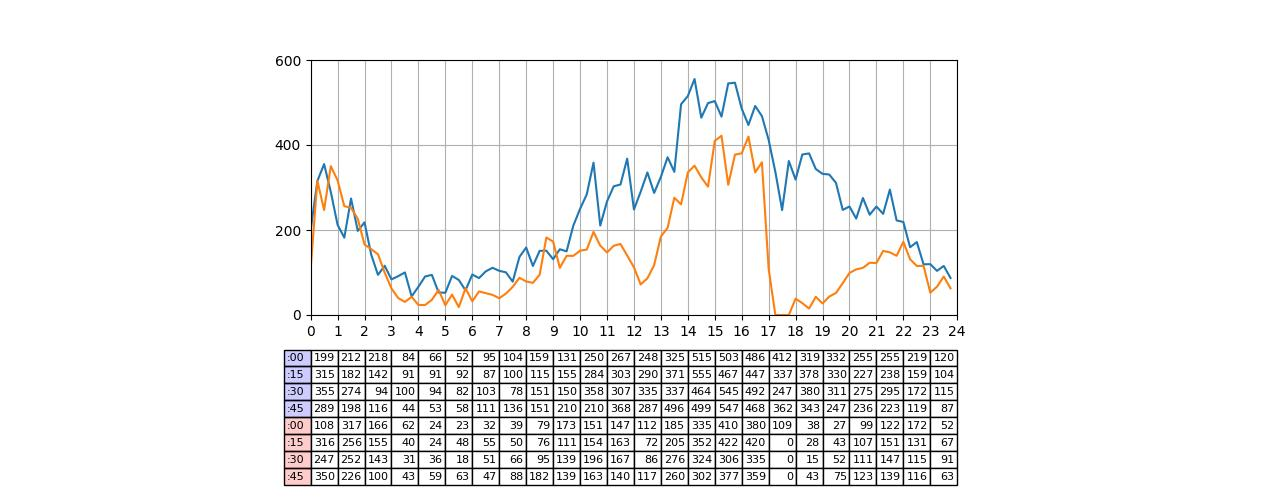
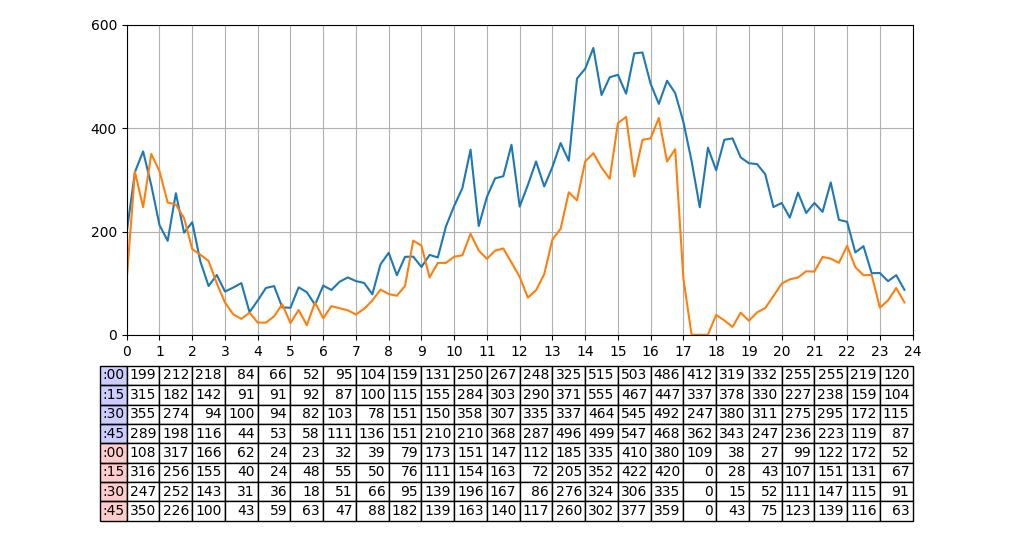
fixed table display

Changed region(s): [[0.0917, 0.09, 0.9172, 0.99], [0.0917, 0.03, 0.8866, 0.06]]

diff --git a/graphToCSV.py b/graphToCSV.py
@@ -17,6 +17,7 @@ def GetBooleans(args, file_names):
     show_graphs = False
     save_graphs = False
     overlay = False
+    table = False
     divs = 4
     # Get list of file_names and update boolean.
     if len(args) > 0:
@@ -34,13 +35,16 @@ def GetBooleans(args, file_names):
         if 'overlay' in args:
             overlay = True
             args.remove('overlay')
+        if 'table' in args:
+            table = True
+            args.remove('table')
         # To keep reference, use +=.
         file_names += args
     if len(file_names) == 0:
         if not show_graphs:
             output_month = True
         output = False
-    return (output, output_month, show_graphs, save_graphs, divs, overlay)
+    return (output, output_month, show_graphs, save_graphs, divs, overlay, table)
 
 
 def GetBox(color_band):
@@ -121,7 +125,7 @@ if __name__ == "__main__":
     # Parse command line arguments.
     # output: output .csv, output_month: default no filename, show_graphs: display, save_graphs: save figure, 
     # divisions: hourly divisions, overlay: compare graphs
-    output, output_month, show_graphs, save_graphs, divisions, overlay = GetBooleans(sys.argv[1:], file_names)
+    output, output_month, show_graphs, save_graphs, divisions, overlay, table = GetBooleans(sys.argv[1:], file_names)
     # If no filename arguments given, output is false.
     if not output:
         # Default compile month worth of volumes, default January 2020.
@@ -176,8 +180,8 @@ if __name__ == "__main__":
         
         if show_graphs or save_graphs:
             ratio = (col_grid_inds[-1] - col_grid_inds[0]) / (row_grid_inds[-1] - row_grid_inds[0])
-            # 5 inches height is good size.
-            fig = plt.figure(figsize=[ratio*5,1*5])
+            # 5 inches height is good size without the table. [width, height]
+            fig = plt.figure(figsize=[ratio * (4 if table else 5), (1+divisions*1/11 if table else 1) * (4 if table else 5)])
             ax = fig.gca()
             if overlay:
                 graph_region_arr = np.array(graph_region_im)
@@ -192,17 +196,22 @@ if __name__ == "__main__":
             plt.grid()
 
             # Do the table of values.
-            # https://matplotlib.org/stable/gallery/misc/table_demo.html#sphx-glr-gallery-misc-table-demo-py
-            rows = [f':{i:02}' for i in range(0,60,60//divisions)] * 2
-            cell_text = [[f'{int(round(r))}' for r in r_scaled_vals[i::divisions]] for i in range(divisions)] + [[f'{int(round(b))}' for b in b_scaled_vals[i::divisions]] for i in range(divisions)]
-            colors = [[0,0,1,.2]]*divisions + [[1,0,0,.2]]*divisions
-            the_table = plt.table(cellText = cell_text,
-                                  rowLabels=rows,
-                                  rowColours= colors,
-                                #   colLabels=x_scaled[:-1:divisions].astype(int),
-                                  bbox=[0, -2/3, 1, 17/32],
-                                  loc='bottom')
-            plt.subplots_adjust(left=.1, bottom=0.37)
+            if table:
+                # https://matplotlib.org/stable/gallery/misc/table_demo.html#sphx-glr-gallery-misc-table-demo-py
+                rows = [f':{i:02}' for i in range(0,60,60//divisions)] * 2
+                cell_text = [[f'{int(round(r))}' for r in r_scaled_vals[i::divisions]] for i in range(divisions)] + [[f'{int(round(b))}' for b in b_scaled_vals[i::divisions]] for i in range(divisions)]
+                colors = [[0,0,1,.2]]*divisions + [[1,0,0,.2]]*divisions
+                the_table = plt.table(cellText = cell_text,
+                                    rowLabels=rows,
+                                    rowColours= colors,
+                                    #   colLabels=x_scaled[:-1:divisions].astype(int),
+                                    # bbox=[0,-1.6, 1, 12/8]# for divisions=12
+                                    # bbox=[0,-.66, 1, 4/8]# for divisions=4
+                                    bbox=[0, -.1-divisions*1.5/12, 1, .125*divisions],
+                                    loc='bottom')
+                # plt.subplots_adjust(top=1.47)# for divisions=12
+                # plt.subplots_adjust(top=1.23)# for divisions=4
+                plt.subplots_adjust(top=1.11 + divisions*3/100)
 
             # Set x and y ticks.
             ax.set_xticks(x_scaled[::divisions])

diff --git a/README.md b/README.md
@@ -2,6 +2,9 @@
 
 This program turns a graph of traffic approach volume into data values. The UDOT ATSPM website provides graphs of traffic metrics but does not provide the raw data. In particular, the UDOT ATSPM website provides a jpeg of the graph of approach volume for an intersection. This code reads a jpeg and writes a CSV file in an existing folder called "Volumes/".
 
+![alt text](./Example/ApproachVolumesGraph2020-01-01.jpg)
+![alt text](./Example/extracted2020-01-01.jpg)
+
 Example Command Line (powershell terminal):
 - python graphToCSV.py show Graphs2020-01/VolumesGraph2020-01-01.jpg save overlay
 
